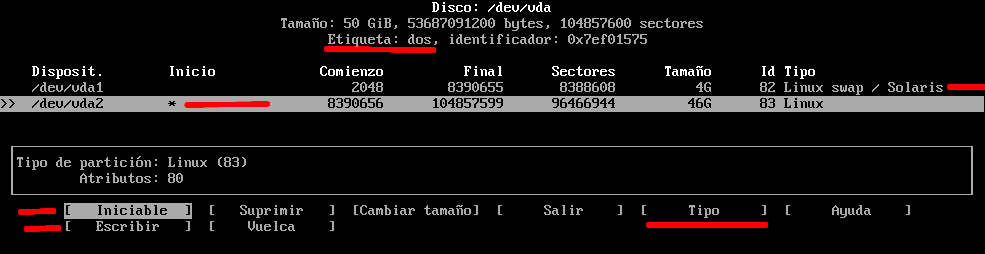
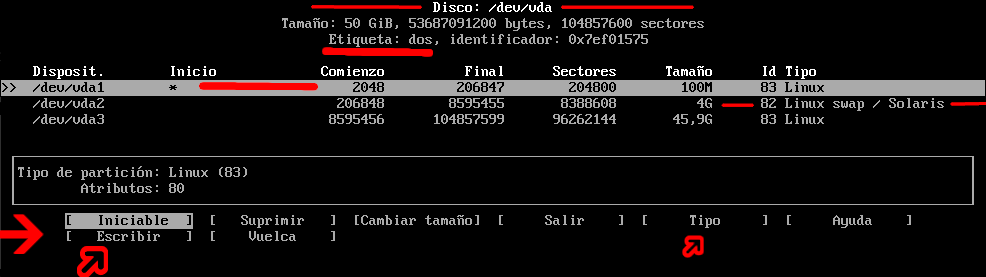
up

Changed region(s): [[0.0, 0.2205, 1.0, 0.4685], [0.0, 0.5512, 1.0, 1.0], [0.2741, 0.0, 0.731, 0.2205]]

diff --git a/ArchLinux_BIOS_ext4.html b/ArchLinux_BIOS_ext4.html
@@ -890,26 +890,25 @@ border-left: 3px solid rgb(0, 0, 0); white-space: pre-wrap; color: rgba(0, 0, 0,
 ● <b>Flecha Arriba / Abajo - Flechas Derecha / Izquierda</b> - para movernos en cfdisk
 </blockquote>
 
-<a href="https://github.com/CodigoCristo/codigocristo.github.io/blob/main/img/uefi/2.png?raw=true" title="CodigoCristo" target="_blank">
-<img src="https://github.com/CodigoCristo/codigocristo.github.io/blob/main/img/uefi/2.png?raw=true" alt="CodigoCristo " border="30" /></a>
+<a href="https://github.com/CodigoCristo/codigocristo.github.io/blob/main/img/bios/5.png?raw=true" title="CodigoCristo" target="_blank">
+<img src="https://github.com/CodigoCristo/codigocristo.github.io/blob/main/img/bios/5.png?raw=true" alt="CodigoCristo " border="30" /></a>
 <br>
 <br>
 
-<a href="https://img.webme.com/pic/c/codigocristo/gpt-archlinux2.png" title="CodigoCristo" target="_blank">
-<img src="https://img.webme.com/pic/c/codigocristo/gpt-archlinux2.png" alt="CodigoCristo " border="30" /></a>
+<a href="https://github.com/CodigoCristo/codigocristo.github.io/blob/main/img/bios/6.png?raw=true" title="CodigoCristo" target="_blank">
+<img src="https://github.com/CodigoCristo/codigocristo.github.io/blob/main/img/bios/6.png?raw=true" alt="CodigoCristo " border="30" /></a>
 <br>
 <br>
-<a href="https://github.com/CodigoCristo/codigocristo.github.io/blob/main/img/uefi/3.png?raw=true" title="CodigoCristo" target="_blank">
-<img src="https://github.com/CodigoCristo/codigocristo.github.io/blob/main/img/uefi/3.png?raw=true" alt="CodigoCristo " border="30" /></a>
+<a href="https://github.com/CodigoCristo/codigocristo.github.io/blob/main/img/bios/7.png?raw=true" title="CodigoCristo" target="_blank">
+<img src="https://github.com/CodigoCristo/codigocristo.github.io/blob/main/img/bios/7.png?raw=true" alt="CodigoCristo " border="30" /></a>
 <br>
 
 <br>
 <blockquote style="margin: 18px 21px 16px 0px; padding: 0px 0px 0px 15px; 
 counter-reset: list-1 0 list-2 0 list-3 0 list-4 0 list-5 0 list-6 0 list-7 0 list-8 0 list-9 0; 
 font-family: Consolas, Monaco, &quot;Courier New&quot;, monospace; font-size: 15px; overflow-wrap: break-word; 
-border-left: 3px solid rgb(0, 0, 0); white-space: pre-wrap; color: rgba(0, 0, 0, 0.8)">● Para la particion EFI  <b>/dev/vda1</b> debe ser tipo <b>EFI System</b>
-● Para la particion SWAP <b>/dev/vda2</b> debe ser tipo <b>Linux Swap</b>
-● Para la particion ROOT <b>/dev/vda3</b> debe ser tipo <b>Sistema de ficheros de Linux</b>
+border-left: 3px solid rgb(0, 0, 0); white-space: pre-wrap; color: rgba(0, 0, 0, 0.8)">● Para la particion SWAP <b>/dev/vda1</b> debe ser tipo <b>Linux Swap / Solaris</b>
+● Para la particion BOOT+ROOT <b>/dev/vda2</b> debe ser tipo <b>Linux</b> marcar <b>[ Iniciable ]</b>
 </blockquote>
 
 <blockquote style="margin: 18px 21px 16px 0px; padding: 0px 0px 0px 15px; 
@@ -922,8 +921,8 @@ border-left: 3px solid rgb(0, 0, 0); white-space: pre-wrap; color: rgba(0, 0, 0,
 <p style="box-sizing: border-box; margin: 0px 0px 16px; padding: 0px; outline: 0px; overflow-wrap: break-word; color: rgb(50, 50, 50); font-family: &quot;Open Sans&quot;, sans-serif; font-size: 15px; background-color: rgb(255, 255, 255); text-align: left; ">
 Podemos revisarlo con <b>fdisk -l</b></p>
 
-<a href="https://github.com/CodigoCristo/codigocristo.github.io/blob/main/img/uefi/4.png?raw=true" title="CodigoCristo" target="_blank">
-<img src="https://github.com/CodigoCristo/codigocristo.github.io/blob/main/img/uefi/4.png?raw=true" alt="CodigoCristo " border="30" /></a>
+<a href="https://github.com/CodigoCristo/codigocristo.github.io/blob/main/img/bios/8.png?raw=true" title="CodigoCristo" target="_blank">
+<img src="https://github.com/CodigoCristo/codigocristo.github.io/blob/main/img/bios/8.png?raw=true" alt="CodigoCristo " border="30" /></a>
 <br>
 
 
@@ -940,19 +939,8 @@ Existen múltiples formatos de particiones disponibles para usar, sin embargo en
 Ext4 es el más usado y recomendado.<br>
 Ext4 es un sistema de archivos transaccional (en inglés journaling) de Linux<br></p>
 
-<br>
-<h3 style="box-sizing: border-box; margin: 1.5rem 0px 16px; padding: 0px; outline: 0px; 
-font-family: Muli, sans-serif; color: rgb(60, 66, 79); text-rendering: optimizelegibility; font-size: 1.5rem; 
-line-height: 2.25rem; overflow-wrap: break-word; background-color: rgb(255, 255, 255);">
-<span style="box-sizing: border-box; margin: 0px; padding: 0px; outline: 0px;">
-Formateo de la Partición de arranque para UEFI :
-</span></h3>
 
-<pre spellcheck="false" style="margin-top: 15px; margin-bottom: 15px; padding: 11px 20px; 
-font-family: Consolas, Monaco, &quot;Courier New&quot;, monospace; font-size: 14px; 
-background: rgb(245, 245, 245); white-space: pre-wrap; overflow-wrap: break-word; 
-color: rgba(100, 100, 100, 0.7);"><span style="color: rgb(255, 0, 0, 0.9);">root</span>@archiso ~ # <span 
-style="color: rgb(0, 0, 0);">mkfs.fat -F32 -n "UEFI" /dev/vda1</span></pre>
+
 
 
 <h3 style="box-sizing: border-box; margin: 1.5rem 0px 16px; padding: 0px; outline: 0px; 
@@ -966,7 +954,7 @@ Formateo de la Partición SWAP  :
 font-family: Consolas, Monaco, &quot;Courier New&quot;, monospace; font-size: 14px; 
 background: rgb(245, 245, 245); white-space: pre-wrap; overflow-wrap: break-word; 
 color: rgba(100, 100, 100, 0.7);"><span style="color: rgb(255, 0, 0, 0.9);">root</span>@archiso ~ # <span 
-style="color: rgb(0, 0, 0);">mkswap -L "SWAP" /dev/vda2</span></pre>
+style="color: rgb(0, 0, 0);">mkswap -L "SWAP" /dev/vda1</span></pre>
 
 <h3 style="box-sizing: border-box; margin: 1.5rem 0px 16px; padding: 0px; outline: 0px; 
 font-family: Muli, sans-serif; color: rgb(60, 66, 79); text-rendering: optimizelegibility; font-size: 1.5rem; 
@@ -979,7 +967,7 @@ Activación SWAP ON  :
 font-family: Consolas, Monaco, &quot;Courier New&quot;, monospace; font-size: 14px; 
 background: rgb(245, 245, 245); white-space: pre-wrap; overflow-wrap: break-word; 
 color: rgba(100, 100, 100, 0.7);"><span style="color: rgb(255, 0, 0, 0.9);">root</span>@archiso ~ # <span 
-style="color: rgb(0, 0, 0);">swapon /dev/vda2</span></pre>
+style="color: rgb(0, 0, 0);">swapon /dev/vda1</span></pre>
 
 
 
@@ -994,7 +982,7 @@ Formateo de la Partición de Root :
 font-family: Consolas, Monaco, &quot;Courier New&quot;, monospace; font-size: 14px; 
 background: rgb(245, 245, 245); white-space: pre-wrap; overflow-wrap: break-word; 
 color: rgba(100, 100, 100, 0.7);"><span style="color: rgb(255, 0, 0, 0.9);">root</span>@archiso ~ # <span 
-style="color: rgb(0, 0, 0);">mkfs.ext4 -L "ROOT" /dev/vda3</span></pre>
+style="color: rgb(0, 0, 0);">mkfs.ext4 -L "ROOT" /dev/vda2</span></pre>
 
 
 
